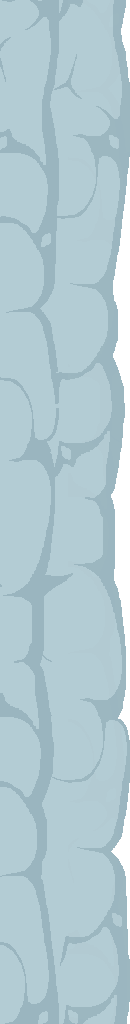
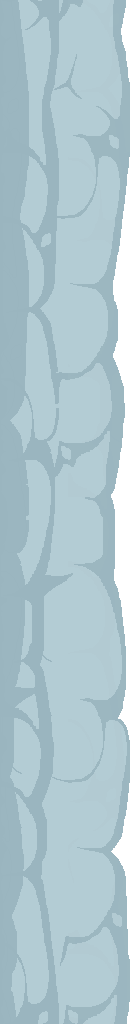
add screen lock removal

diff --git a/NPCs/Bosses/ADD/UkkoBarrier.cs b/NPCs/Bosses/ADD/UkkoBarrier.cs
@@ -52,10 +52,6 @@ namespace Redemption.NPCs.Bosses.ADD
             if (originPos2.Y >= 1024)
                 originPos2.Y = 0;
             Player player = Main.LocalPlayer;
-            float distX = player.Center.X - Projectile.Center.X;
-            distX = Math.Abs(distX);
-            if (distX > 700) distX = 700;
-            visibility = 1f * (700 - distX) / 700;
 
             if (Projectile.ai[1] > 0)
             {
@@ -70,10 +66,10 @@ namespace Redemption.NPCs.Bosses.ADD
                 Projectile.Center = new Vector2(newX, player.Center.Y);
             }
         }
-        float visibility = 0f;
         public override bool PreDraw(ref Color lightColor)
         {
             Texture2D texture = TextureAssets.Projectile[Projectile.type].Value;
+            Texture2D fog = ModContent.Request<Texture2D>(Projectile.ModProjectile.Texture + "_Fog").Value;
             int projHeight = texture.Height;
             var effects = Projectile.spriteDirection == 1 ? SpriteEffects.None : SpriteEffects.FlipHorizontally;
 
@@ -85,8 +81,9 @@ namespace Redemption.NPCs.Bosses.ADD
 
             for (int i = 0; i < 20; i++)
             {
-                Main.EntitySpriteDraw(texture, drawPos + originPos2 - Main.screenPosition + new Vector2(0, Projectile.gfxOffY), null, Projectile.GetAlpha(lightColor) * visibility, 0, origin, Projectile.scale, effects, 0);
-                Main.EntitySpriteDraw(texture, drawPos - originPos2 + new Vector2(50 * Projectile.spriteDirection, 0) - Main.screenPosition + new Vector2(0, Projectile.gfxOffY), null, Projectile.GetAlpha(lightColor) * 0.6f * visibility, 0, origin, Projectile.scale, effects, 0);
+                Main.EntitySpriteDraw(fog, drawPos - originPos2 + new Vector2(Projectile.spriteDirection == -1 ? 50 : -1000, 0) - Main.screenPosition + new Vector2(0, Projectile.gfxOffY), new Rectangle(0, 0, 1000, projHeight), Projectile.GetAlpha(Color.Gray), 0, origin, Projectile.scale, effects, 0);
+                Main.EntitySpriteDraw(texture, drawPos + originPos2 - Main.screenPosition + new Vector2(0, Projectile.gfxOffY), null, Projectile.GetAlpha(Color.Gray), 0, origin, Projectile.scale, effects, 0);
+                Main.EntitySpriteDraw(texture, drawPos - originPos2 + new Vector2(50 * Projectile.spriteDirection, 0) - Main.screenPosition + new Vector2(0, Projectile.gfxOffY), null, Projectile.GetAlpha(Color.Gray) * 0.6f, 0, origin, Projectile.scale, effects, 0);
                 drawPos.Y -= projHeight;
             }
             return false;
@@ -131,10 +128,6 @@ namespace Redemption.NPCs.Bosses.ADD
             if (originPos2.X >= 1024)
                 originPos2.X = 0;
             Player player = Main.LocalPlayer;
-            float distY = player.Center.Y - Projectile.Center.Y;
-            distY = Math.Abs(distY);
-            if (distY > 700) distY = 700;
-            visibility = 1f * (700 - distY) / 700;
 
             if (Projectile.ai[1] > 0)
             {
@@ -149,12 +142,12 @@ namespace Redemption.NPCs.Bosses.ADD
                 Projectile.Center = new Vector2(player.Center.X, newY);
             }
         }
-        float visibility = 0f;
         public override bool PreDraw(ref Color lightColor)
         {
             Texture2D texture = TextureAssets.Projectile[Projectile.type].Value;
+            Texture2D fog = ModContent.Request<Texture2D>(Projectile.ModProjectile.Texture + "_Fog").Value;
             int projHeight = texture.Height;
-            var effects = Projectile.ai[1] >= 0 ? SpriteEffects.None : SpriteEffects.FlipVertically;
+            var effects = Projectile.ai[1] >= 0 ? SpriteEffects.None : SpriteEffects.FlipHorizontally;
 
             Vector2 drawPos = originPos;
             drawPos.X += projHeight * 10;
@@ -164,8 +157,9 @@ namespace Redemption.NPCs.Bosses.ADD
 
             for (int i = 0; i < 20; i++)
             {
-                Main.EntitySpriteDraw(texture, drawPos + originPos2 - Main.screenPosition + new Vector2(0, Projectile.gfxOffY), null, Projectile.GetAlpha(lightColor) * visibility, MathHelper.PiOver2, origin, Projectile.scale, effects, 0);
-                Main.EntitySpriteDraw(texture, drawPos - originPos2 + new Vector2(0, 50 * Projectile.ai[1] >= 0 ? 1 : -1) - Main.screenPosition + new Vector2(0, Projectile.gfxOffY), null, Projectile.GetAlpha(lightColor) * 0.6f * visibility, MathHelper.PiOver2, origin, Projectile.scale, effects, 0);
+                Main.EntitySpriteDraw(fog, drawPos - originPos2 - new Vector2(0, Projectile.ai[1] >= 0 ? 1000 : -100) - Main.screenPosition + new Vector2(0, Projectile.gfxOffY), new Rectangle(0, 0, 1000, projHeight), Projectile.GetAlpha(Color.Gray), MathHelper.PiOver2, origin, Projectile.scale, effects, 0);
+                Main.EntitySpriteDraw(texture, drawPos + originPos2 - Main.screenPosition + new Vector2(0, Projectile.gfxOffY), null, Projectile.GetAlpha(Color.Gray), MathHelper.PiOver2, origin, Projectile.scale, effects, 0);
+                Main.EntitySpriteDraw(texture, drawPos - originPos2 + new Vector2(0, 50 * (Projectile.ai[1] >= 0 ? 1 : -1)) - Main.screenPosition + new Vector2(0, Projectile.gfxOffY), null, Projectile.GetAlpha(Color.Gray) * 0.6f, MathHelper.PiOver2, origin, Projectile.scale, effects, 0);
                 drawPos.X -= projHeight;
             }
             return false;

diff --git a/Globals/Player/ScreenPlayer.cs b/Globals/Player/ScreenPlayer.cs
@@ -205,7 +205,7 @@ namespace Redemption
         }
         public void ADDScreenLock()
         {
-            Rectangle ADDscreen = NPC.AnyNPCs(ModContent.NPCType<Ukko>()) || NPC.AnyNPCs(ModContent.NPCType<Akka>()) ? new Rectangle((int)ArenaWorld.arenaTopLeft.X, (int)ArenaWorld.arenaTopLeft.Y, (int)ArenaWorld.arenaSize.X, (int)ArenaWorld.arenaSize.Y) : Rectangle.Empty;
+            Rectangle ADDscreen = NPC.AnyNPCs(ModContent.NPCType<Ukko>()) || NPC.AnyNPCs(ModContent.NPCType<Akka>()) ? new Rectangle((int)ArenaWorld.arenaTopLeft.X - 1000, (int)ArenaWorld.arenaTopLeft.Y - 1000, (int)ArenaWorld.arenaSize.X + 2000, (int)ArenaWorld.arenaSize.Y + 2000) : Rectangle.Empty;
             if (!ADDscreen.IsEmpty)
             {
                 Vector2 pos = new(ADDscreen.Center.X, ADDscreen.Center.Y);
